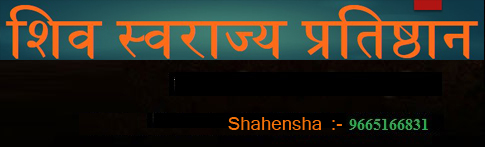
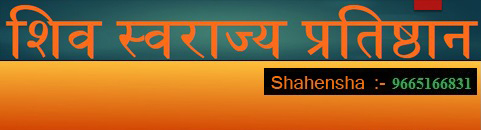
update

diff --git a/home/index.html b/home/index.html
@@ -2,8 +2,10 @@
 <html>
 
   <head>
-
-
+    <meta charset="UTF-8">
+    <meta http-equiv="X-UA-Compatible" content="IE=edge">
+    <meta name="viewport" content="width=device-width, initial-scale=1.0">
+    <meta name="google-site-verification" content="k1O-wddjTnajgfr55cWwwG7oUgaFjNKFZiFgknBWxtQ"/>
     <script language="JavaScript1.1">
     <!--
     //specify interval between slide (in mili seconds)
@@ -66,7 +68,7 @@ background-color: #fa7202;
 .style4 {	color: #FFFF99;
 	font-family: Mangal, "Arial Unicode MS";
 }
-.style5 {color: #FFFFCC}
+.style5 {color: #030303}
 a:link {
 	text-decoration: none;
 }
@@ -138,7 +140,8 @@ a:active {
             <td width="41" valign="top" background="images/left_repeat.jpg"><img src="images/left_bar.jpg" width="41" height="521" /></td>
             <td valign="top"><table width="100%" border="0" cellspacing="0" cellpadding="0">
               <tr>
-                <td><div align="center"><img src="gallery01.jpg" name="slide" border=0 style="filter:blendTrans(duration=3)"> 
+                <td>
+                  <div align="center"><img src="gallery01.jpg" name="slide" border=0 style="filter:blendTrans(duration=3)"> 
 <script language="JavaScript1.1">
 
 var whichimage=0
@@ -165,7 +168,7 @@ slideit()
                     <td width="15" valign="top">&nbsp;</td>
                     <td width="255" valign="top"><table width="100%" border="0" cellspacing="0" cellpadding="0">
                       <tr>
-                        <td valign="top" class="style1"><div align="center">:- सभासद नोंदणी फॉर्म -:</div></td>
+                        <td valign="top" class="style1"><div align="center">:- सदस्य नोंदणी फॉर्म -:</div></td>
                       </tr>
                       <tr>
                         <td valign="top">&nbsp;</td>
@@ -177,7 +180,7 @@ slideit()
                         <td valign="top">&nbsp;</td>
                       </tr>
                       <tr>
-                        <td valign="top"><div align="center" class="style1"><a href="sabhasad.html" class="style1"><img src="images/arrow_moving.gif" width="21" height="12" border="0" />सभासद नोंदणी फॉर्मसाठी येथे क्लिक करा </a></div></td>
+                        <td valign="top"><div align="center" class="style1"><a href="sabhasad.html" class="style1"><img src="images/arrow_moving.gif" width="21" height="12" border="0" />सदस्य नोंदणी फॉर्मसाठी येथे क्लिक करा </a></div></td>
                       </tr>
                       <tr>
                         <td valign="top"><div align="center"></div></td>
@@ -205,14 +208,14 @@ slideit()
                       <tr>
                         <td valign="top"><p align="justify" class="style1"> <div id="cols">
                           <div class="col_1">
-                    <center> <h2> <font color="red">अध्यक्ष</h2></center>
+                    <center> <h2> <font color="black">अध्यक्ष</h2></center>
                     <table width="100%">
                         <tbody><tr>
                             <td style="width:25%; padding:5px">
                                 <img src="images/mayur.jpg" alt="अध्यक्ष" width="75%" >
                             </td>
                             <td>
-                                <table width="100%" border="5 solid red" bgcolor="orange">
+                                <table width="100%" border="5 solid black" bgcolor="orange">
                                     <tbody><tr>
                                         <td style="width:18%; padding:5px" >नाव
                                         </td>
@@ -239,14 +242,14 @@ slideit()
                 </div> </p>
                           <p align="justify" class="style1"> <div id="cols">
                 <div class="col_1">
-                   <center> <h2> <font color="red">उपाध्यक्ष</h2></center>
+                   <center> <h2> <font color="black">उपाध्यक्ष</h2></center>
                     <table width="100%">
                         <tbody><tr>
                             <td style="width:25%; padding:5px">
                                 <img src="images/up.jpg" alt="उपाध्यक्ष" width="75%" >
                             </td>
                             <td>
-                                <table width="100%" border="5 solid red" bgcolor="orange">
+                                <table width="100%" border="5 solid black" bgcolor="orange">
                                     <tbody><tr>
                                         <td style="width:18%; padding:5px" >नाव
                                         </td>
@@ -273,7 +276,7 @@ slideit()
                 </div> </p>
                           <p align="justify" class="style1"> <div id="cols">
                 <div class="col_1">
-                    <center><h2> <font color="red">सचिव </h2></center>
+                    <center><h2> <font color="black">सचिव </h2></center>
                     <table width="100%">
                         <tbody><tr>
                             <td style="width:25%; padding:5px">
@@ -307,7 +310,7 @@ slideit()
                 </div> </p>
                           <p align="justify" class="style1"> <div id="cols">
                 <div class="col_1">
-                    <center><h2> <font color="red">कार्याध्यक्ष </h2></center>
+                    <center><h2> <font color="black">कार्याध्यक्ष </h2></center>
                     <table width="100%">
                         <tbody><tr>
                             <td style="width:25%; padding:5px">
@@ -372,5 +375,4 @@ slideit()
 <area shape="rect" coords="114,65,151,113" href="https://www.youtube.com/" target="_blank" />
 </map></body>
 
-<!-- Mirrored from www.shivswarajy.in/home/index.html by HTTrack Website Copier/3.x [XR&CO'2014], Wed, 26 Jan 2022 09:17:03 GMT -->
 </html>

diff --git a/home/pudhil_mohim.html b/home/pudhil_mohim.html
@@ -2,7 +2,9 @@
 <html>
 
 <head>
-
+  <meta charset="UTF-8">
+  <meta http-equiv="X-UA-Compatible" content="IE=edge">
+  <meta name="viewport" content="width=device-width, initial-scale=1.0">
   <meta name="google-site-verification" content="k1O-wddjTnajgfr55cWwwG7oUgaFjNKFZiFgknBWxtQ" />
 <script language="JavaScript1.1">
 
@@ -66,7 +68,7 @@ background-color: #fa7202;
 .style4 {	color: #FFFF99;
 	font-family: Mangal, "Arial Unicode MS";
 }
-.style5 {color: #FFFFCC}
+.style5 {color: #030303}
 a:link {
 	color: #FFFFCC;
 	text-decoration: none;
@@ -164,7 +166,9 @@ a:active {
                         <td valign="top" class="style1">&nbsp;</td>
                       </tr>
                       <tr>
-                        /* <td valign="top" class="style1"><div align="center"><img src="images/mission02.jpg" width="598" height="539" /></div></td> */
+                        <td valign="top" class="style1"><div align="center">
+                          <img src="images/mission02.jpg" width="598" height="539"/>
+                          </div></td>
                       </tr>
                       <tr>
                         <td valign="top" class="style1">&nbsp;</td>

diff --git a/home/kshanachitre.html b/home/kshanachitre.html
@@ -2,8 +2,10 @@
 <html>
 
 <head>
-
-  <meta name="google-site-verification" content="k1O-wddjTnajgfr55cWwwG7oUgaFjNKFZiFgknBWxtQ" />
+  <meta charset="UTF-8">
+  <meta http-equiv="X-UA-Compatible" content="IE=edge">
+  <meta name="viewport" content="width=device-width, initial-scale=1.0">
+  <meta name="google-site-verification" content="k1O-wddjTnajgfr55cWwwG7oUgaFjNKFZiFgknBWxtQ"/>
 <script language="JavaScript1.1">
 
 //specify interval between slide (in mili seconds)
@@ -66,7 +68,7 @@ background-color: #fa7202;
 .style4 {	color: #FFFF99;
 	font-family: Mangal, "Arial Unicode MS";
 }
-.style5 {color: #FFFFCC}
+.style5 {color: #030303}
 a:link {
 	text-decoration: none;
 }

diff --git a/home/sampark.html b/home/sampark.html
@@ -2,6 +2,9 @@
 <html>
 
 <head>
+  <meta charset="UTF-8">
+  <meta http-equiv="X-UA-Compatible" content="IE=edge">
+  <meta name="viewport" content="width=device-width, initial-scale=1.0">
   <meta name="google-site-verification" content="k1O-wddjTnajgfr55cWwwG7oUgaFjNKFZiFgknBWxtQ" />
 
 <script language="JavaScript1.1">
@@ -66,7 +69,7 @@ background-color: #fa7202;
 .style4 {	color: #FFFF99;
 	font-family: Mangal, "Arial Unicode MS";
 }
-.style5 {color: #FFFFCC}
+.style5 {color: #030303}
 .style14 {
 	color: #FFFFCC;
 	font-weight: bold;

diff --git a/home/shivjayanti_2022.html b/home/shivjayanti_2022.html
@@ -2,7 +2,9 @@
 <html>
 
 <head>
-
+  <meta charset="UTF-8">
+  <meta http-equiv="X-UA-Compatible" content="IE=edge">
+  <meta name="viewport" content="width=device-width, initial-scale=1.0">
   <meta name="google-site-verification" content="k1O-wddjTnajgfr55cWwwG7oUgaFjNKFZiFgknBWxtQ" />
 <script language="JavaScript1.1">
 
@@ -66,7 +68,7 @@ background-color: #fa7202;
 .style4 {	color: #FFFF99;
 	font-family: Mangal, "Arial Unicode MS";
 }
-.style5 {color: #FFFFCC}
+.style5 {color: #030303}
 a:link {
 	text-decoration: none;
 }

diff --git a/index.html b/index.html
@@ -2,9 +2,11 @@
 <html>
 
 <head>
+  <meta charset="UTF-8">
+  <meta http-equiv="X-UA-Compatible" content="IE=edge">
+  <meta name="viewport" content="width=device-width, initial-scale=1.0">
   <meta name="google-site-verification" content="k1O-wddjTnajgfr55cWwwG7oUgaFjNKFZiFgknBWxtQ" />
-<meta http-equiv="Content-Type" content="text/html; charset=utf-8" />
-<title>शिव स्वराज्य ...</title>
+<title>शिवस्वराज्य प्रतिष्ठान</title>
 <style type="text/css">
 <!--
 body {

diff --git a/home/sabhasad.html b/home/sabhasad.html
@@ -2,6 +2,9 @@
 <html>
 
 <head>
+  <meta charset="UTF-8">
+  <meta http-equiv="X-UA-Compatible" content="IE=edge">
+  <meta name="viewport" content="width=device-width, initial-scale=1.0">
   <meta name="google-site-verification" content="k1O-wddjTnajgfr55cWwwG7oUgaFjNKFZiFgknBWxtQ" />
 
 <script language="JavaScript1.1">
@@ -66,7 +69,7 @@ background-color: #fa7202;
 .style4 {	color: #FFFF99;
 	font-family: Mangal, "Arial Unicode MS";
 }
-.style5 {color: #FFFFCC}
+.style5 {color: #030303}
 -->
 </style></head>
 

diff --git a/home/shivkarya.html b/home/shivkarya.html
@@ -2,6 +2,9 @@
 <html>
 
 <head>
+  <meta charset="UTF-8">
+  <meta http-equiv="X-UA-Compatible" content="IE=edge">
+  <meta name="viewport" content="width=device-width, initial-scale=1.0">
   <meta name="google-site-verification" content="k1O-wddjTnajgfr55cWwwG7oUgaFjNKFZiFgknBWxtQ" />
 
 <script language="JavaScript1.1">
@@ -66,7 +69,7 @@ background-color: #fa7202;
 .style4 {	color: #FFFF99;
 	font-family: Mangal, "Arial Unicode MS";
 }
-.style5 {color: #FFFFCC}
+.style5 {color: #030303}
 -->
 </style></head>
 

diff --git a/home/uddishte.html b/home/uddishte.html
@@ -2,6 +2,9 @@
 <html>
 
 <head>
+  <meta charset="UTF-8">
+  <meta http-equiv="X-UA-Compatible" content="IE=edge">
+  <meta name="viewport" content="width=device-width, initial-scale=1.0">
   <meta name="google-site-verification" content="k1O-wddjTnajgfr55cWwwG7oUgaFjNKFZiFgknBWxtQ" />
 
 <script language="JavaScript1.1">
@@ -66,7 +69,7 @@ background-color: #fa7202;
 .style4 {	color: #FFFF99;
 	font-family: Mangal, "Arial Unicode MS";
 }
-.style5 {color: #FFFFCC}
+.style5 {color: #030303}
 -->
 </style></head>
 

diff --git a/home/manogat.html b/home/manogat.html
@@ -2,6 +2,9 @@
 <html>
 
 <head>
+  <meta charset="UTF-8">
+  <meta http-equiv="X-UA-Compatible" content="IE=edge">
+  <meta name="viewport" content="width=device-width, initial-scale=1.0">
   <meta name="google-site-verification" content="k1O-wddjTnajgfr55cWwwG7oUgaFjNKFZiFgknBWxtQ" />
 
 
@@ -67,7 +70,7 @@ background-color: #fa7202;
 .style4 {	color: #FFFF99;
 	font-family: Mangal, "Arial Unicode MS";
 }
-.style5 {color: #FFFFCC}
+.style5 {color: #030303}
 -->
 </style></head>
 

diff --git a/home/chitrafit.html b/home/chitrafit.html
@@ -3,6 +3,9 @@
 
 <head>
   <meta name="google-site-verification" content="k1O-wddjTnajgfr55cWwwG7oUgaFjNKFZiFgknBWxtQ" />
+  <meta charset="UTF-8">
+  <meta http-equiv="X-UA-Compatible" content="IE=edge">
+  <meta name="viewport" content="width=device-width, initial-scale=1.0">
 
 <script language="JavaScript1.1">
 // <!--
